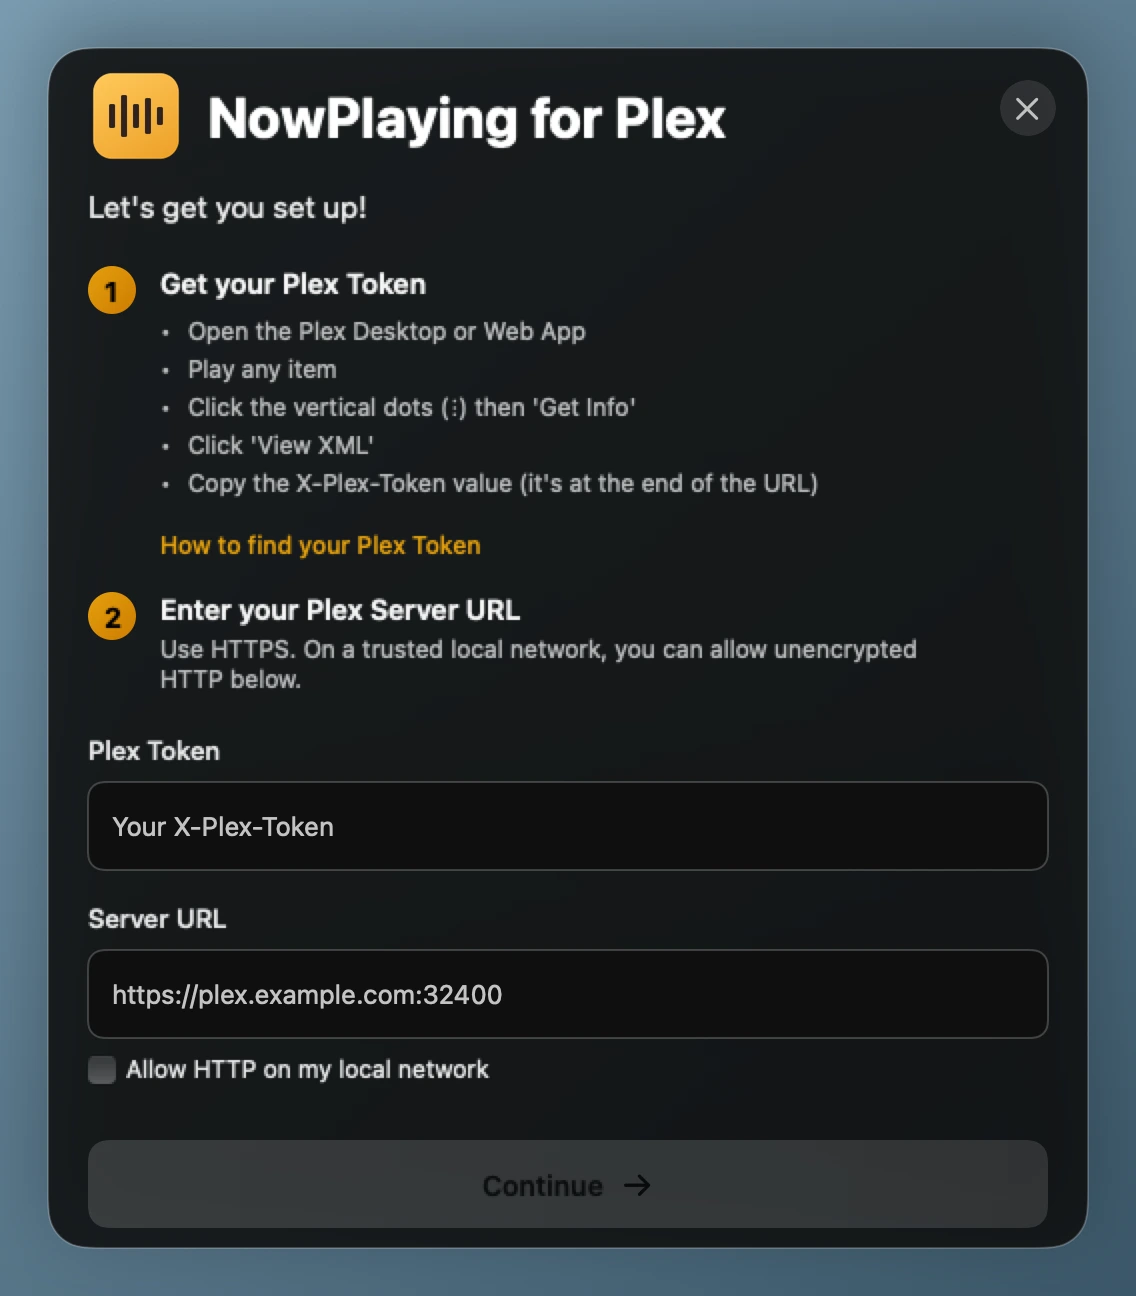
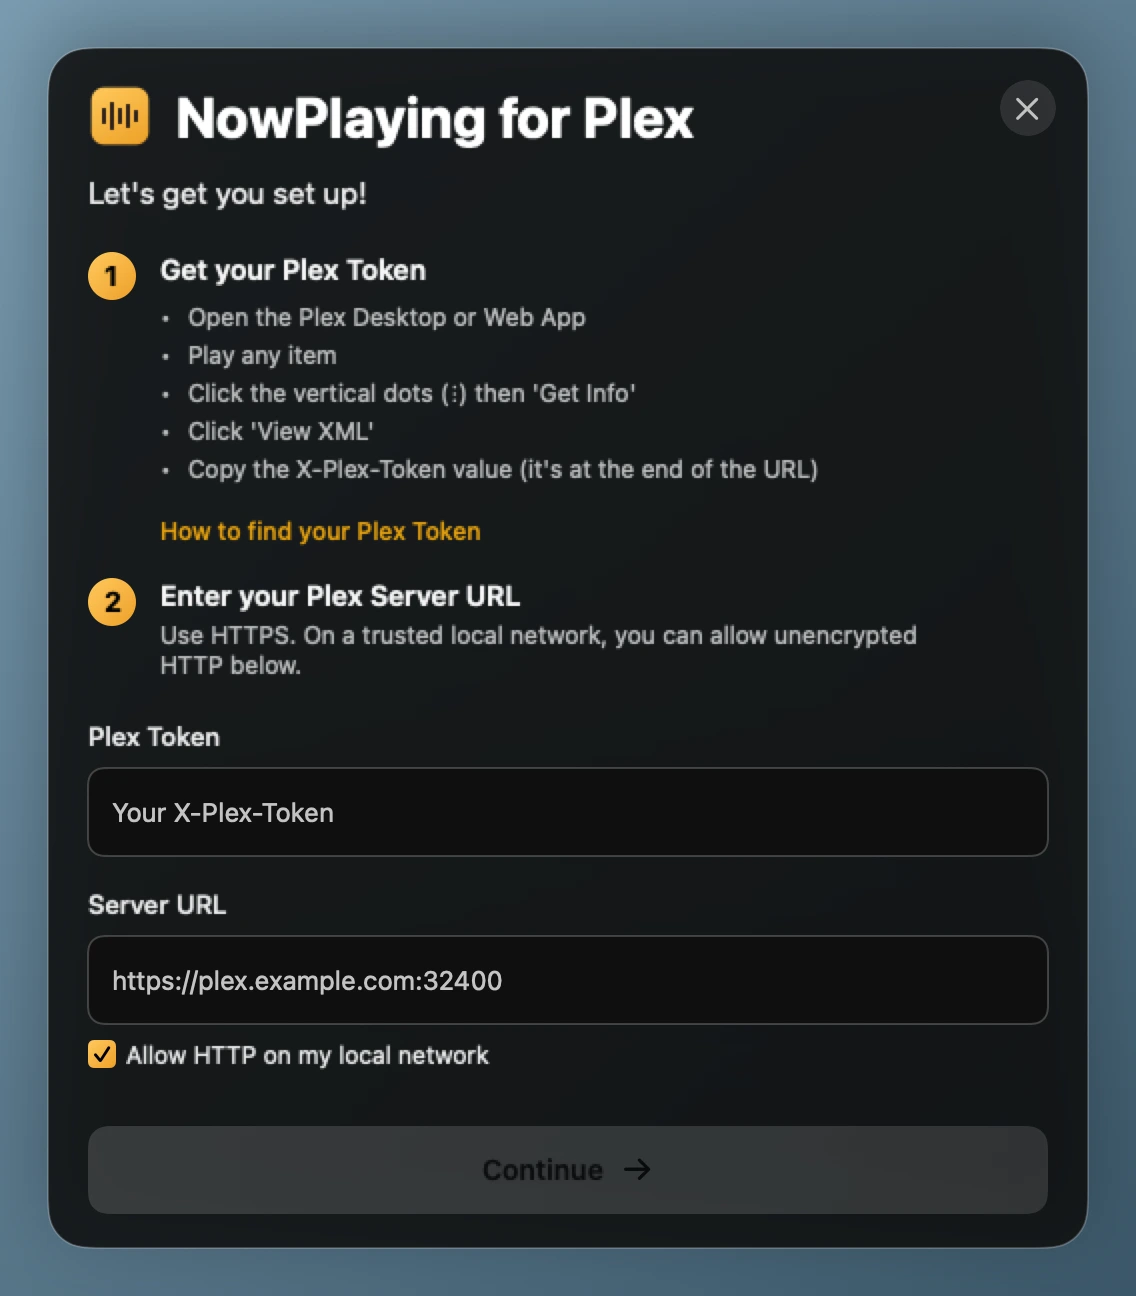
Apply amber styling to startup and settings

diff --git a/NowPlayingForPlex/NowPlayingForPlex/OnboardingView.swift b/NowPlayingForPlex/NowPlayingForPlex/OnboardingView.swift
@@ -42,7 +42,7 @@ struct OnboardingView: View {
                     HStack(spacing: 12) {
                         Image(nsImage: NSImage(named: "AppIcon") ?? NSImage())
                             .resizable()
-                            .frame(width: 48, height: 48)
+                            .frame(width: 32, height: 32)
                             .accessibilityLabel("NowPlaying for Plex application icon")
 
                         Text("NowPlaying for Plex")
@@ -62,21 +62,7 @@ struct OnboardingView: View {
                 VStack(alignment: .leading, spacing: 16) {
                     VStack(alignment: .leading, spacing: 8) {
                         HStack(alignment: .top, spacing: 12) {
-                            Text("1")
-                                .font(.system(size: 14, weight: .bold))
-                                .foregroundColor(.black)
-                                .frame(width: 24, height: 24)
-                                .background(
-                                    LinearGradient(
-                                        gradient: Gradient(colors: [
-                                            Color(red: 229/255, green: 160/255, blue: 13/255),
-                                            Color(red: 204/255, green: 123/255, blue: 2/255)
-                                        ]),
-                                        startPoint: .topLeading,
-                                        endPoint: .bottomTrailing
-                                    )
-                                )
-                                .clipShape(Circle())
+                            OnboardingStepNumber(number: 1)
                                 .accessibilityHidden(true)
 
                             VStack(alignment: .leading, spacing: 8) {
@@ -183,8 +169,7 @@ struct OnboardingView: View {
                         .onSubmit(validateAndSave)
 
                         Toggle("Allow HTTP on my local network", isOn: $allowsLocalHTTP)
-                            .toggleStyle(.checkbox)
-                            .tint(Color(red: 229/255, green: 160/255, blue: 13/255))
+                            .toggleStyle(AmberCheckboxStyle())
                             .font(.system(size: 12))
                             .foregroundColor(.white.opacity(0.9))
                             .help("HTTP sends your Plex token without encryption. Use it only on a network you trust.")
@@ -385,6 +370,48 @@ struct OnboardingView: View {
     }
 }
 
+private struct AmberCheckboxStyle: ToggleStyle {
+    func makeBody(configuration: Configuration) -> some View {
+        Button {
+            configuration.isOn.toggle()
+        } label: {
+            HStack(spacing: 5) {
+                RoundedRectangle(cornerRadius: 3)
+                    .fill(.white.opacity(0.17))
+                    .overlay {
+                        if configuration.isOn {
+                            RoundedRectangle(cornerRadius: 3).fill(BrandAppearance.amberGradient)
+                            Image(systemName: "checkmark")
+                                .font(.system(size: 9, weight: .bold))
+                                .foregroundStyle(.black)
+                        }
+                    }
+                    .frame(width: 14, height: 14)
+                    .accessibilityHidden(true)
+                configuration.label
+            }
+            .contentShape(Rectangle())
+        }
+        .buttonStyle(.plain)
+        .accessibilityRepresentation {
+            Toggle(isOn: configuration.$isOn) { configuration.label }
+                .toggleStyle(.checkbox)
+        }
+    }
+}
+
+private struct OnboardingStepNumber: View {
+    let number: Int
+
+    var body: some View {
+        Text("\(number)")
+            .font(.system(size: 14, weight: .bold))
+            .foregroundColor(.black)
+            .frame(width: 24, height: 24)
+            .background(BrandAppearance.amberGradient, in: Circle())
+    }
+}
+
 struct InstructionStep: View {
     let number: Int
     let title: String
@@ -392,21 +419,7 @@ struct InstructionStep: View {
 
     var body: some View {
         HStack(alignment: .top, spacing: 12) {
-            Text("\(number)")
-                .font(.system(size: 14, weight: .bold))
-                .foregroundColor(.black)
-                .frame(width: 24, height: 24)
-                .background(
-                    LinearGradient(
-                        gradient: Gradient(colors: [
-                            Color(red: 229/255, green: 160/255, blue: 13/255),
-                            Color(red: 204/255, green: 123/255, blue: 2/255)
-                        ]),
-                        startPoint: .topLeading,
-                        endPoint: .bottomTrailing
-                    )
-                )
-                .clipShape(Circle())
+            OnboardingStepNumber(number: number)
 
             VStack(alignment: .leading, spacing: 4) {
                 Text(title)

diff --git a/NowPlayingForPlex/NowPlayingForPlex/SettingsView.swift b/NowPlayingForPlex/NowPlayingForPlex/SettingsView.swift
@@ -221,13 +221,7 @@ struct SettingsView: View {
 }
 
 private enum SettingsAppearance {
-    static let accent = Color(red: 229/255, green: 160/255, blue: 13/255)
     static let controlFill = Color.white.opacity(0.1)
-    static let selectionFill = LinearGradient(
-        colors: [accent, Color(red: 204/255, green: 123/255, blue: 2/255)],
-        startPoint: .topLeading,
-        endPoint: .bottomTrailing
-    )
 }
 
 private struct SettingsPanelSurface: ViewModifier {
@@ -279,7 +273,7 @@ struct SegmentedControl<T: RawRepresentable & Equatable>: View where T.RawValue 
                         .padding(.horizontal, 10)
                         .background {
                             if isSelected {
-                                SettingsAppearance.selectionFill
+                                BrandAppearance.amberGradient
                             }
                         }
                         .cornerRadius(8)
@@ -319,7 +313,7 @@ struct SegmentedControlBool: View {
                         .padding(.horizontal, 16)
                         .background {
                             if isSelected {
-                                SettingsAppearance.selectionFill
+                                BrandAppearance.amberGradient
                             }
                         }
                         .cornerRadius(8)
@@ -386,7 +380,7 @@ struct PlexToggle: View {
                     .fill(Color.white.opacity(0.3))
                     .overlay {
                         if isOn {
-                            Capsule().fill(SettingsAppearance.selectionFill)
+                            Capsule().fill(BrandAppearance.amberGradient)
                         }
                     }
 

diff --git a/NowPlayingForPlex/NowPlayingForPlex/BrandAppearance.swift b/NowPlayingForPlex/NowPlayingForPlex/BrandAppearance.swift
@@ -1,0 +1,12 @@
+import SwiftUI
+
+enum BrandAppearance {
+    static let amberGradient = LinearGradient(
+        colors: [
+            Color(red: 1, green: 201.0 / 255, blue: 91.0 / 255),
+            Color(red: 237.0 / 255, green: 159.0 / 255, blue: 39.0 / 255)
+        ],
+        startPoint: .topLeading,
+        endPoint: .bottomTrailing
+    )
+}

diff --git a/dev/active/hostile-repo-review/v1.3.1-release-notes.md b/dev/active/hostile-repo-review/v1.3.1-release-notes.md
@@ -4,6 +4,7 @@
 - If several people are playing music on your Plex server, **Playback Source** lets you follow a specific user or device. **Automatic** picks a music session for you.
 - Your saved Plex connection stays in place if a server change fails. Connections use HTTPS by default. For a trusted local server that needs HTTP, enable **Allow HTTP on my local network** during setup.
 - NowPlaying for Plex has a five-bar Amber app icon, a matching menu bar icon, and a redesigned drag-to-install window.
+- The setup icon is smaller, and the amber gradient now accents step numbers and selected settings.
 - Track text stays still when it fits. Longer lines scroll while music is playing.
 
 ## Installation
